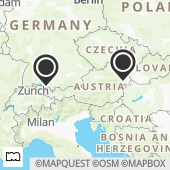
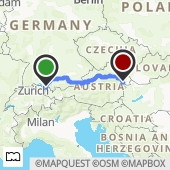
added images for all tours, tourimages now display route in blue

Changed region(s): [[0.2059, 0.3235, 0.7353, 0.5294], [0.6765, 0.2941, 0.7941, 0.4118], [0.2647, 0.5, 0.2941, 0.5294]]

diff --git a/tourplanner.DALayer/DB.cs b/tourplanner.DALayer/DB.cs
@@ -167,7 +167,7 @@ namespace tourplanner.DALayer
                 t.tour_Map = $"{filePath}{t.tour_ID}.jpg";
                 using (WebClient client_w = new WebClient())
                 {
-                    client_w.DownloadFile(new Uri($"https://www.mapquestapi.com/staticmap/v5/map?locations={t.tour_From}||{t.tour_To}&size=170,170&key={APIkey}"), $@"{t.tour_Map}");
+                    client_w.DownloadFile(new Uri($"https://www.mapquestapi.com/staticmap/v5/map?start={t.tour_From}&end={t.tour_To}&size=170,170&key={APIkey}"), $@"{t.tour_Map}");
                 }
             }
             catch(Exception)
